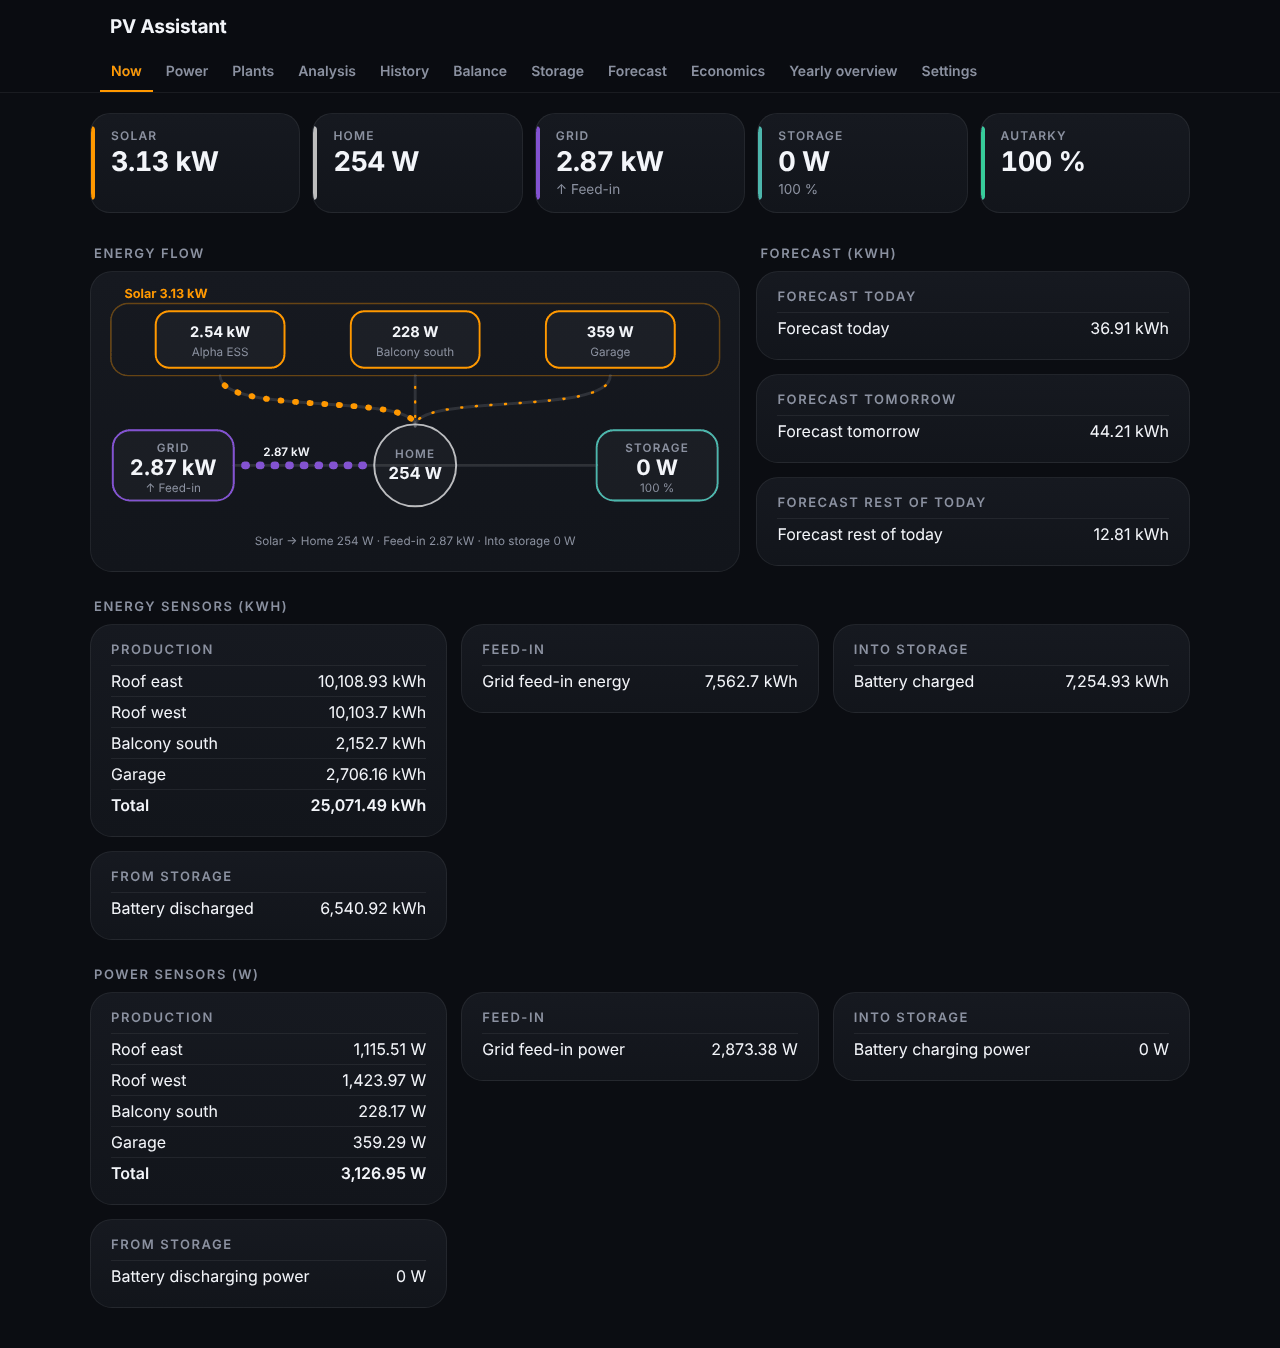
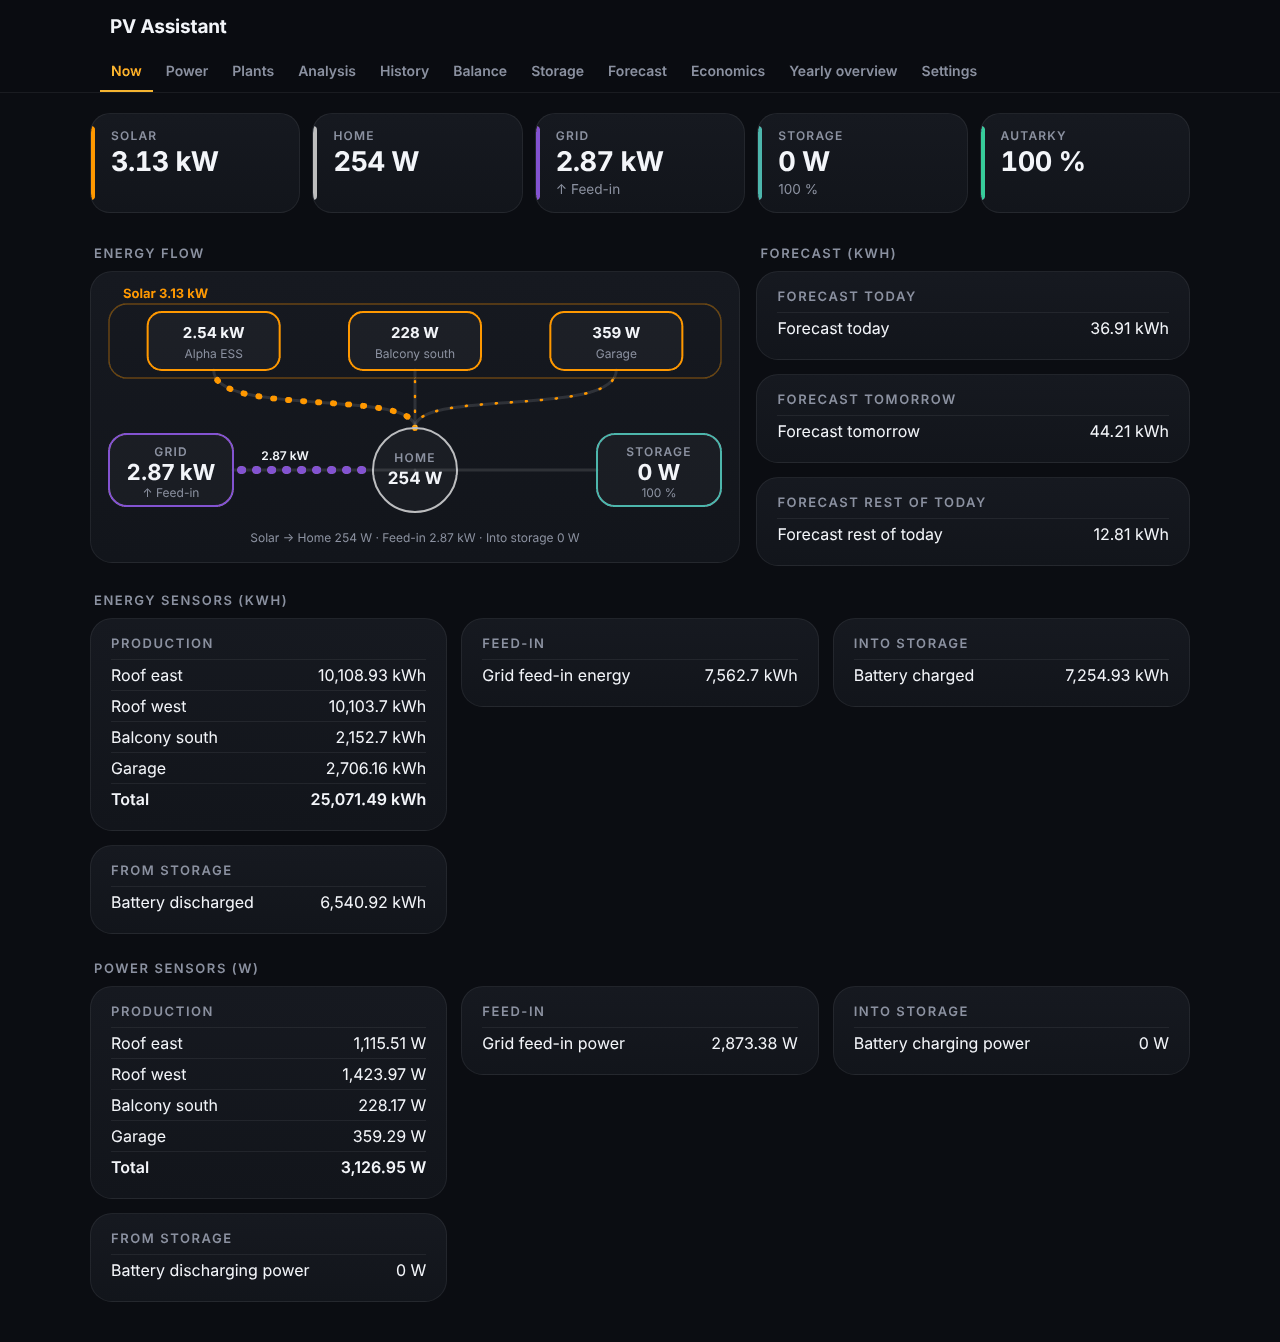
Make the panel work on phones and add mobile screenshots
Claude-Session: https://claude.ai/code/session_01TaJYM5KB2UjSXtUd6GEyfY

diff --git a/custom_components/pv_assistant/frontend/pv-assistant-panel.js b/custom_components/pv_assistant/frontend/pv-assistant-panel.js
@@ -460,6 +460,7 @@ class PVAssistantPanel extends HTMLElement {
           .tiles { display:grid; grid-template-columns:repeat(auto-fill,minmax(170px,1fr)); gap:16px 20px; margin:0 0 16px; padding:18px 22px;
                    background:var(--g-panel-bg); border:1px solid var(--g-line); border-radius:22px; }
           .tiles:empty { display:none; }
+          .chart { overflow-x:auto; }
           .tile { display:flex; flex-direction:column; gap:3px; min-width:0; }
           .tile b { display:block; font-size:1.35em; font-weight:700; font-variant-numeric:tabular-nums; }
           .tile span { color:var(--g-muted); font-size:.75em; letter-spacing:.06em; text-transform:uppercase; font-weight:600; }
@@ -514,12 +515,14 @@ class PVAssistantPanel extends HTMLElement {
           .kpi span { display:block; color:var(--g-muted); font-size:12px; letter-spacing:.1em; text-transform:uppercase; font-weight:600; }
           .kpi b { display:block; font-size:1.7em; font-weight:700; letter-spacing:-.02em; font-variant-numeric:tabular-nums; margin-top:2px; }
           .kpi small { color:var(--g-muted); font-size:.85em; }
+          @media (max-width:520px) { .tiles { grid-template-columns:repeat(2,minmax(0,1fr)); gap:14px; padding:14px 16px; } .tile b { font-size:1.2em; } }
+          @media (max-width:520px) { .kpis { grid-template-columns:repeat(auto-fit,minmax(104px,1fr)); gap:8px; } .kpi { padding:10px 10px 10px 14px; border-radius:16px; } .kpi b { font-size:1.3em; } .kpi span { font-size:11px; letter-spacing:.06em; } }
           .nowtop { display:grid; grid-template-columns:minmax(0,3fr) minmax(0,2fr); gap:0 16px; align-items:start; }
           .nowtop:has(#nowside:empty) { grid-template-columns:minmax(0,640px); }
           .grid.side { grid-template-columns:1fr; }
           @media (max-width:820px) { .nowtop { grid-template-columns:1fr; } }
           .flowcard { padding:8px 12px; }
-          svg.flow { display:block; width:100%; max-width:640px; margin:0 auto; color:var(--g-text); }
+          svg.flow { display:block; width:100%; margin:0 auto; color:var(--g-text); }
           svg.flow .track { fill:none; stroke:currentColor; stroke-width:3; opacity:.12; stroke-linecap:round; }
           svg.flow .run { fill:none; stroke-linecap:round; stroke-dasharray:1 14; animation:pvaflow 1.1s linear infinite; }
           @keyframes pvaflow { to { stroke-dashoffset:-15; } }
@@ -766,14 +769,17 @@ class PVAssistantPanel extends HTMLElement {
     const NS = "http://www.w3.org/2000/svg";
     const el = (tag, attrs = {}, text) => { const n = document.createElementNS(NS, tag); for (const [k, v] of Object.entries(attrs)) n.setAttribute(k, v); if (text !== undefined) n.textContent = text; return n; };
     const cut = (t, n) => (t.length > n ? `${t.slice(0, n - 1)}…` : t);
-    // the plants (inverters) in a row on top, the home in the middle, grid left and storage right
+    // the plants (inverters) in rows on top, the home in the middle, grid left and storage right; the drawing is as wide as its
+    // box (at most 640), so the text keeps its size on a phone and the plants wrap into more rows
     const plants = plantsOf(this._cfg.settings, P.prod).map((p) => ({
       sensors: p.sensors,
       name: p.name || p.sensors.map((id) => this._read(id).name).join(" + "),
     }));
-    const layoutKey = plants.map((p) => p.sensors.join("+") + p.name).join("|");
+    const avail = box.clientWidth ? box.clientWidth - 26 : 640; // the card has 12 px padding and a border
+    const W = Math.max(250, Math.min(640, Math.round(avail / 20) * 20));
+    const layoutKey = `${W}|${plants.map((p) => p.sensors.join("+") + p.name).join("|")}`;
     if (this._flowBuilt && this._flowKey !== layoutKey) this._flowBuilt = false;
-    const HUB = [320, 190];
+    const wide = W >= 500;
     if (!this._flowBuilt) {
       this._flowBuilt = true;
       this._flowKey = layoutKey;
@@ -781,50 +787,66 @@ class PVAssistantPanel extends HTMLElement {
       box.innerHTML = `<h2>${esc(this._t("flowTitle"))}</h2>`;
       const card = document.createElement("div");
       card.className = "card flowcard";
-      const svg = el("svg", { viewBox: "0 0 640 290", class: "flow", role: "img", "aria-label": this._t("flowTitle") });
       const n = plants.length;
-      const slot = 600 / n, bw = Math.min(132, slot - 8);
-      svg.append(el("rect", { x: 8, y: 24, width: 624, height: 74, rx: 18, class: "pvframe" }));
-      this._flow.total = el("text", { x: 22, y: 18, class: "flowtotal" });
+      const want = wide ? 132 : 92;
+      const cols = Math.max(1, Math.min(n, Math.floor((W - 16) / want)));
+      const rows = Math.ceil(n / cols);
+      const slot = (W - 16) / cols, bw = Math.min(132, slot - 8);
+      const frameH = rows * 66 + 8, frameBottom = 24 + frameH;
+      const HUB = [W / 2, frameBottom + 92], R = wide ? 42 : 36;
+      const H = HUB[1] + 56 + (wide ? 28 : 44);
+      const svg = el("svg", { viewBox: `0 0 ${W} ${H}`, class: "flow", role: "img", "aria-label": this._t("flowTitle"), style: `max-width:${W}px` });
+      svg.append(el("rect", { x: 4, y: 24, width: W - 8, height: frameH, rx: 18, class: "pvframe" }));
+      this._flow.total = el("text", { x: 18, y: 18, class: "flowtotal" });
       svg.append(this._flow.total);
       plants.forEach((p, i) => {
-        const cx = 20 + slot * (i + 0.5);
-        const d = `M${cx},98 C${cx},140 ${HUB[0]},115 ${HUB[0]},${HUB[1] - 40}`;
+        const r = Math.floor(i / cols), c = i % cols;
+        const inRow = Math.min(cols, n - r * cols); // the last row is centered
+        const cx = 8 + (W - 16 - inRow * slot) / 2 + slot * (c + 0.5);
+        const top = 32 + r * 66;
+        const d = `M${cx},${top + 58} C${cx},${frameBottom + 40} ${HUB[0]},${frameBottom + 10} ${HUB[0]},${HUB[1] - R}`;
         svg.append(el("path", { d, class: "track" }));
         const run = el("path", { d, class: "run", stroke: "var(--pva-prod)", visibility: "hidden" });
         svg.append(run);
         const g = el("g", { class: "flownode" });
-        g.append(el("rect", { x: cx - bw / 2, y: 32, width: bw, height: 58, rx: 14, class: "flowbox", stroke: "var(--pva-prod)" }));
-        const val = el("text", { x: cx, y: 58, "text-anchor": "middle", class: "flowpv" });
-        g.append(val, el("text", { x: cx, y: 78, "text-anchor": "middle", class: "flowsub" }, cut(p.name, Math.max(6, Math.floor(bw / 7)))));
+        g.append(el("rect", { x: cx - bw / 2, y: top, width: bw, height: 58, rx: 14, class: "flowbox", stroke: "var(--pva-prod)" }));
+        const val = el("text", { x: cx, y: top + 26, "text-anchor": "middle", class: "flowpv" });
+        g.append(val, el("text", { x: cx, y: top + 46, "text-anchor": "middle", class: "flowsub" }, cut(p.name, Math.max(6, Math.floor(bw / 7)))));
         svg.append(g);
         this._flow.plants.push({ run, val, sensors: p.sensors });
       });
-      // hub: the home
-      svg.append(el("circle", { cx: HUB[0], cy: HUB[1], r: 42, class: "flowbox", stroke: "var(--pva-house)" }));
+      svg.append(el("circle", { cx: HUB[0], cy: HUB[1], r: R, class: "flowbox", stroke: "var(--pva-house)" }));
       svg.append(el("text", { x: HUB[0], y: HUB[1] - 8, "text-anchor": "middle", class: "flowname" }, this._t("flowHome")));
       this._flow.home = el("text", { x: HUB[0], y: HUB[1] + 14, "text-anchor": "middle", class: "flowpv hub" });
       svg.append(this._flow.home);
+      const sw = wide ? 124 : 92;
       const side = (key, x, name, color) => {
         const g = el("g", { class: "flownode" });
-        g.append(el("rect", { x: x - 62, y: HUB[1] - 36, width: 124, height: 72, rx: 18, class: "flowbox", stroke: `var(${color})` }));
+        g.append(el("rect", { x: x - sw / 2, y: HUB[1] - 36, width: sw, height: 72, rx: 18, class: "flowbox", stroke: `var(${color})` }));
         g.append(el("text", { x, y: HUB[1] - 14, "text-anchor": "middle", class: "flowname" }, name));
-        const val = el("text", { x, y: HUB[1] + 10, "text-anchor": "middle", class: "flowval" });
+        const val = el("text", { x, y: HUB[1] + 10, "text-anchor": "middle", class: wide ? "flowval" : "flowpv" });
         const sub = el("text", { x, y: HUB[1] + 27, "text-anchor": "middle", class: "flowsub" });
         g.append(val, sub);
-        const track = el("path", { d: `M${x < HUB[0] ? x + 62 : x - 62},${HUB[1]} L${HUB[0]},${HUB[1]}`, class: "track" });
+        const edge = x < HUB[0] ? x + sw / 2 : x - sw / 2;
+        const track = el("path", { d: `M${edge},${HUB[1]} L${HUB[0]},${HUB[1]}`, class: "track" });
         const run = el("path", { class: "run", visibility: "hidden" });
         const label = el("text", { x: (x + HUB[0]) / 2 + (x < HUB[0] ? -8 : 8), y: HUB[1] - 10, "text-anchor": "middle", class: "flowlbl" });
         svg.append(track, run, g, label);
-        this._flow[key] = { g, val, sub, run, label, track, x };
+        this._flow[key] = { g, val, sub, run, label, track, x, edge };
       };
-      side("grid", 72, this._t("flowGrid"), "--pva-grid");
-      side("bat", 568, this._t("flowBattery"), "--pva-bout");
-      this._flow.split = el("text", { x: HUB[0], y: 272, "text-anchor": "middle", class: "flowsub" });
-      svg.append(this._flow.split);
+      side("grid", sw / 2 + 4, this._t("flowGrid"), "--pva-grid");
+      side("bat", W - sw / 2 - 4, this._t("flowBattery"), "--pva-bout");
+      this._flow.R = R;
+      this._flow.HUB = HUB;
+      this._flow.sw = sw;
+      this._flow.wide = wide;
+      this._flow.split = [el("text", { x: HUB[0], y: H - (wide ? 12 : 30), "text-anchor": "middle", class: "flowsub" })];
+      if (!wide) this._flow.split.push(el("text", { x: HUB[0], y: H - 12, "text-anchor": "middle", class: "flowsub" }));
+      svg.append(...this._flow.split);
       card.append(svg);
       box.append(card);
     }
+    const { HUB, R } = this._flow;
     const v = this._flowValues();
     this._renderKpis(v);
     const fmt = (x) => (x >= 1000 ? `${(x / 1000).toLocaleString(this._hass.locale?.language || this._hass.language, { maximumFractionDigits: 2 })} kW` : `${Math.round(x)} W`);
@@ -844,12 +866,12 @@ class PVAssistantPanel extends HTMLElement {
       f.g.style.display = show ? "" : "none";
       f.track.style.display = show ? "" : "none";
       const on = show && value >= 5;
-      const edge = f.x < HUB[0] ? f.x + 62 : f.x - 62;
-      f.run.setAttribute("d", intoHub ? `M${edge},${HUB[1]} L${HUB[0] + (f.x < HUB[0] ? -42 : 42)},${HUB[1]}` : `M${HUB[0] + (f.x < HUB[0] ? -42 : 42)},${HUB[1]} L${edge},${HUB[1]}`);
+      const inner = HUB[0] + (f.x < HUB[0] ? -R : R);
+      f.run.setAttribute("d", intoHub ? `M${f.edge},${HUB[1]} L${inner},${HUB[1]}` : `M${inner},${HUB[1]} L${f.edge},${HUB[1]}`);
       f.run.setAttribute("stroke", `var(${color})`);
       f.run.setAttribute("stroke-width", (3 + 5 * Math.min(1, value / Math.max(pmax, 1))).toFixed(1));
       f.run.setAttribute("visibility", on ? "visible" : "hidden");
-      f.label.textContent = on ? fmt(value) : "";
+      f.label.textContent = on && this._flow.wide ? fmt(value) : ""; // on a phone the boxes show the values, there is no room between them
       f.g.querySelector("rect").setAttribute("stroke", `var(${color})`);
     };
     const grid = Math.max(v.imp, v.feed), bat = Math.max(v.out, v.inn);
@@ -863,8 +885,9 @@ class PVAssistantPanel extends HTMLElement {
     // where the solar power goes
     const direct = Math.max(0, Math.min(v.prod, v.prod - v.feed - v.inn));
     const toBat = Math.min(v.inn, Math.max(0, v.prod - v.feed));
-    this._flow.split.textContent = [`${this._t("flowSolar")} → ${this._t("flowHome")} ${fmt(direct)}`,
-      v.hasGrid ? `${this._t("feed")} ${fmt(v.feed)}` : "", v.hasBat ? `${this._t("sin")} ${fmt(toBat)}` : ""].filter(Boolean).join(" · ");
+    const parts = [`${this._t("flowSolar")} → ${this._t("flowHome")} ${fmt(direct)}`, v.hasGrid ? `${this._t("feed")} ${fmt(v.feed)}` : "", v.hasBat ? `${this._t("sin")} ${fmt(toBat)}` : ""].filter(Boolean);
+    if (this._flow.wide) this._flow.split[0].textContent = parts.join(" · ");
+    else { this._flow.split[0].textContent = parts[0]; this._flow.split[1].textContent = parts.slice(1).join(" · "); }
   }
 
   _renderKpis(v) {

diff --git a/custom_components/pv_assistant/frontend/pv-assistant-charts.js b/custom_components/pv_assistant/frontend/pv-assistant-charts.js
@@ -143,8 +143,10 @@ export function lineChart(container, opts) {
     svg.append(el("line", { x1: M.l, x2: M.l + pw, y1: y(v), y2: y(v), class: v === 0 ? "axis" : "grid" }));
     svg.append(el("text", { x: M.l - 6, y: y(v) + 4, class: "tick", "text-anchor": "end" }, fmtValue(v, true)));
   }
-  for (let t = t0; t <= t1 + 1; t += tickStep) {
-    svg.append(el("text", { x: x(t), y: H - 6, class: "tick", "text-anchor": t === t0 ? "start" : t + tickStep > t1 + 1 && t1 - t < 1 ? "end" : "middle" }, fmtTick(t)));
+  // on a narrow chart only every n-th tick is labeled, otherwise the labels run into each other
+  const labelStep = tickStep * Math.max(1, Math.ceil(54 / ((tickStep / (t1 - t0)) * pw)));
+  for (let t = t0; t <= t1 + 1; t += labelStep) {
+    svg.append(el("text", { x: x(t), y: H - 6, class: "tick", "text-anchor": t === t0 ? "start" : t + labelStep > t1 + 1 && t1 - t < 1 ? "end" : "middle" }, fmtTick(t)));
   }
   live.forEach((s, i) => {
     // break the line where data is missing for more than 1.5 buckets

diff --git a/wiki/Panel-Tabs.md b/wiki/Panel-Tabs.md
@@ -8,6 +8,10 @@ The top bar with the tabs stays visible while scrolling and is a single row (it 
 
 **Range picker:** every tab with data you can select (Power, Plants, Analysis, History, Balance, Storage, Forecast, Economics) has the same compact picker: the unit **Day · Week · Month · Year · Total**, arrows to page through the periods, the date in the middle (click it for a small calendar: days with week numbers, months or years; the first month with data and today limit it) and a **quick ranges** list (Today, Yesterday, Last 7 / 30 / 90 days, Last 12 months). Click the active unit again to jump to the current period. Total covers everything recorded (the first start reads the long-term statistics once); the tabs that load hourly values (Plants, Analysis) load at most the last 5 years for Total and say so. In the Economics tab day, week, month and the last n days use daily values, year, 12 months and Total monthly values. The yearly overview has its own year selection.
 
+**Phone:** the panel adapts to narrow screens. The tab bar scrolls sideways, the energy flow redraws at the available width (the plants wrap into several rows), the key figures sit in two columns and wide tables scroll inside their card.
+
+<a href="https://raw.githubusercontent.com/weskona/pv-assistant/main/docs/screenshots/mobile/en/01-now.png"><img src="https://raw.githubusercontent.com/weskona/pv-assistant/main/docs/screenshots/mobile/en/01-now.png" alt="Now" width="220"></a> <a href="https://raw.githubusercontent.com/weskona/pv-assistant/main/docs/screenshots/mobile/en/03-plants.png"><img src="https://raw.githubusercontent.com/weskona/pv-assistant/main/docs/screenshots/mobile/en/03-plants.png" alt="Plants" width="220"></a> <a href="https://raw.githubusercontent.com/weskona/pv-assistant/main/docs/screenshots/mobile/en/06-balance.png"><img src="https://raw.githubusercontent.com/weskona/pv-assistant/main/docs/screenshots/mobile/en/06-balance.png" alt="Balance" width="220"></a>
+
 ### Now
 <a href="https://raw.githubusercontent.com/weskona/pv-assistant/main/docs/screenshots/en/01-now.png"><img src="https://raw.githubusercontent.com/weskona/pv-assistant/main/docs/screenshots/en/01-now.png" alt="Now" width="720"></a>
 
@@ -107,6 +111,10 @@ Alle Kennzahlen eines Tabs stehen gemeinsam in einer Karte. Tabs ohne passende S
 Die Kopfleiste mit den Tabs bleibt beim Scrollen sichtbar und ist einzeilig (auf schmalen Bildschirmen seitlich scrollbar). **Aktuell** beginnt mit einer Kennzahlen-Leiste: PV, Haus, Netz, Speicher und Autarkie.
 
 **Zeitraum-Wähler:** Jeder Tab mit auswählbaren Daten (Leistung, Anlagen, Analyse, Verlauf, Energiebilanz, Speicher, Prognose, Wirtschaft) hat denselben kompakten Wähler: die Einheit **Tag · Woche · Monat · Jahr · Gesamt**, Pfeile zum Blättern durch die Zeiträume, in der Mitte das Datum (ein Klick darauf öffnet einen kleinen Kalender: Tage mit Kalenderwochen, Monate oder Jahre; der erste Monat mit Daten und heute begrenzen ihn) und eine **Schnellwahl** (Heute, Gestern, Letzte 7 / 30 / 90 Tage, Letzte 12 Monate). Ein Klick auf die aktive Einheit springt zum aktuellen Zeitraum. Gesamt umfasst alles Aufgezeichnete (beim ersten Mal werden einmalig die Langzeitstatistiken gelesen); die Tabs, die Stundenwerte laden (Anlagen, Analyse), laden bei Gesamt höchstens die letzten 5 Jahre und weisen darauf hin. In der Wirtschaft nutzen Tag, Woche, Monat und die letzten n Tage Tageswerte, Jahr, 12 Monate und Gesamt Monatswerte. Die Jahresübersicht hat ihre eigene Jahresauswahl.
+
+**Handy:** Das Panel passt sich schmalen Bildschirmen an. Die Tab-Leiste scrollt seitlich, der Energiefluss wird in der verfügbaren Breite neu gezeichnet (die Anlagen laufen in mehrere Zeilen um), die Kennzahlen stehen in zwei Spalten, und breite Tabellen scrollen innerhalb ihrer Karte.
+
+<a href="https://raw.githubusercontent.com/weskona/pv-assistant/main/docs/screenshots/mobile/de/01-now.png"><img src="https://raw.githubusercontent.com/weskona/pv-assistant/main/docs/screenshots/mobile/de/01-now.png" alt="Now" width="220"></a> <a href="https://raw.githubusercontent.com/weskona/pv-assistant/main/docs/screenshots/mobile/de/03-plants.png"><img src="https://raw.githubusercontent.com/weskona/pv-assistant/main/docs/screenshots/mobile/de/03-plants.png" alt="Plants" width="220"></a> <a href="https://raw.githubusercontent.com/weskona/pv-assistant/main/docs/screenshots/mobile/de/06-balance.png"><img src="https://raw.githubusercontent.com/weskona/pv-assistant/main/docs/screenshots/mobile/de/06-balance.png" alt="Balance" width="220"></a>
 
 ### Aktuell
 <a href="https://raw.githubusercontent.com/weskona/pv-assistant/main/docs/screenshots/de/01-now.png"><img src="https://raw.githubusercontent.com/weskona/pv-assistant/main/docs/screenshots/de/01-now.png" alt="Aktuell" width="720"></a>
